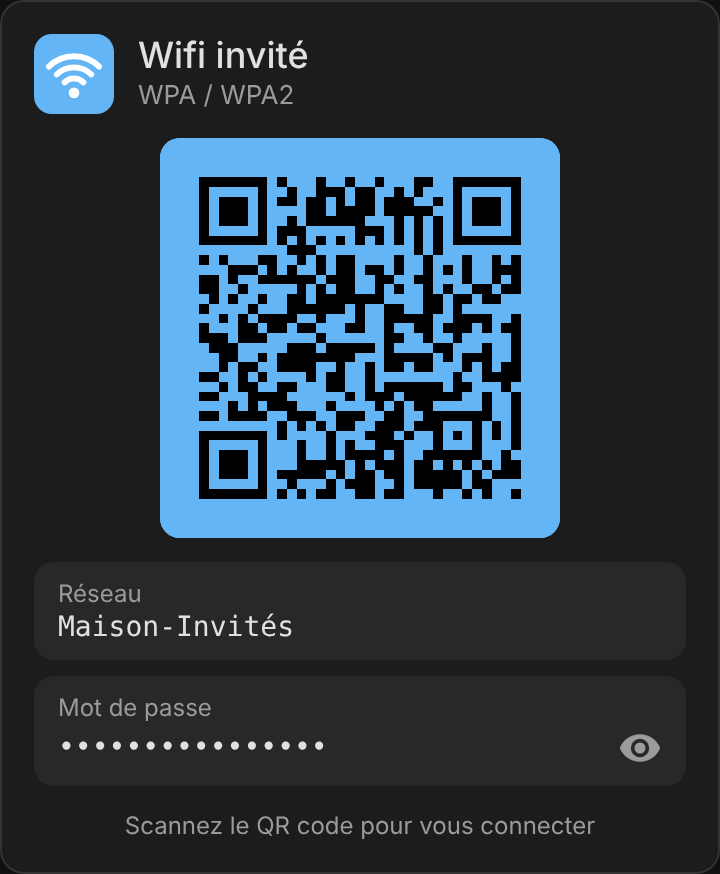
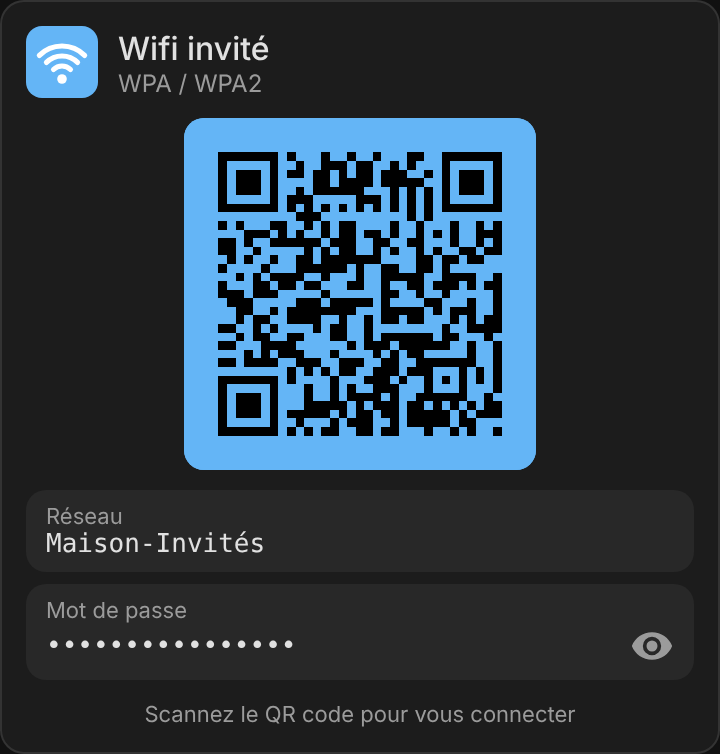
Compact layout with the same information (1.6.0) (#5)
Claude-Session: https://claude.ai/code/session_01FyVHJkuQopwM66ytqwsrgB

diff --git a/src/wifi-card.js b/src/wifi-card.js
@@ -151,26 +151,26 @@ class WifiQrCard extends HTMLElement {
     this.shadowRoot.innerHTML = `
       <style>
         :host { display: block; height: 100%; }
-        ha-card { height: 100%; box-sizing: border-box; padding: 16px; display: flex; flex-direction: column; align-items: center; justify-content: flex-start; gap: 12px; }
-        .header { display: flex; align-items: center; gap: 12px; align-self: flex-start; width: 100%; }
-        .logo { height: 40px; width: 40px; display: block; flex: none; }
+        ha-card { height: 100%; box-sizing: border-box; padding: 12px; display: flex; flex-direction: column; align-items: center; justify-content: flex-start; gap: 10px; }
+        .header { display: flex; align-items: center; gap: 10px; align-self: flex-start; width: 100%; }
+        .logo { height: 36px; width: 36px; display: block; flex: none; }
         .titles { flex: 1; min-width: 0; }
-        .name { font-size: 18px; font-weight: 500; line-height: 1.25; color: var(--primary-text-color); white-space: nowrap; overflow: hidden; text-overflow: ellipsis; }
-        .sub { font-size: 13px; color: var(--secondary-text-color); white-space: nowrap; overflow: hidden; text-overflow: ellipsis; }
+        .name { font-size: 16px; font-weight: 500; line-height: 1.25; color: var(--primary-text-color); white-space: nowrap; overflow: hidden; text-overflow: ellipsis; }
+        .sub { font-size: 12px; color: var(--secondary-text-color); white-space: nowrap; overflow: hidden; text-overflow: ellipsis; }
         ha-icon { color: var(--secondary-text-color); --mdc-icon-size: 22px; }
         .header > ha-icon { --mdc-icon-size: 40px; }
         .qr-wrap { background: ${WIFI_BLUE}; border-radius: 10px; overflow: hidden; line-height: 0; max-width: 100%; cursor: zoom-in; }
-        .qr-wrap svg { max-width: 100%; height: auto; }
+        .qr-wrap svg { max-width: 100%; height: auto; width: 176px; }
         dialog { border: none; padding: 0; margin: auto; background: ${WIFI_BLUE}; border-radius: 12px; line-height: 0; overflow: hidden; cursor: zoom-out; }
         dialog::backdrop { background: rgba(0,0,0,0.85); }
         dialog svg { width: min(90vw, 90vh); height: auto; display: block; }
-        .info-block { width: 100%; display: flex; flex-direction: column; gap: 8px; }
-        .info-row { background: var(--secondary-background-color, rgba(127,127,127,.08)); border-radius: 10px; padding: 8px 12px; }
-        .lbl { font-size: 12px; color: var(--secondary-text-color); margin-bottom: 2px; }
-        .val { font-size: 14px; font-weight: 500; font-family: var(--code-font-family, monospace); word-break: break-all; color: var(--primary-text-color); }
+        .info-block { width: 100%; display: flex; flex-direction: column; gap: 6px; }
+        .info-row { background: var(--secondary-background-color, rgba(127,127,127,.08)); border-radius: 10px; padding: 6px 10px; }
+        .lbl { font-size: 11px; color: var(--secondary-text-color); margin-bottom: 0; }
+        .val { font-size: 13px; font-weight: 500; font-family: var(--code-font-family, monospace); word-break: break-all; color: var(--primary-text-color); }
         .pwd-row { display: flex; align-items: center; justify-content: space-between; gap: 8px; }
         button { background: none; border: none; cursor: pointer; padding: 0; display: flex; align-items: center; }
-        .hint { font-size: 12px; color: var(--secondary-text-color); text-align: center; }
+        .hint { font-size: 11px; color: var(--secondary-text-color); text-align: center; }
       </style>
       <ha-card>
         <div class="header">

diff --git a/CHANGELOG.md b/CHANGELOG.md
@@ -1,5 +1,11 @@
 # Changelog
 
+## 1.6.0
+
+### Changes
+- More compact layout with the same information, like the other ha-* cards: 12 px card padding, 36 px header icon, 16 px name and 12 px subtitle, 11 px pills, tighter tiles and sections.
+- QR code shown at 176 px, tighter network and password blocks.
+
 ## 1.5.3
 
 ### Changes
